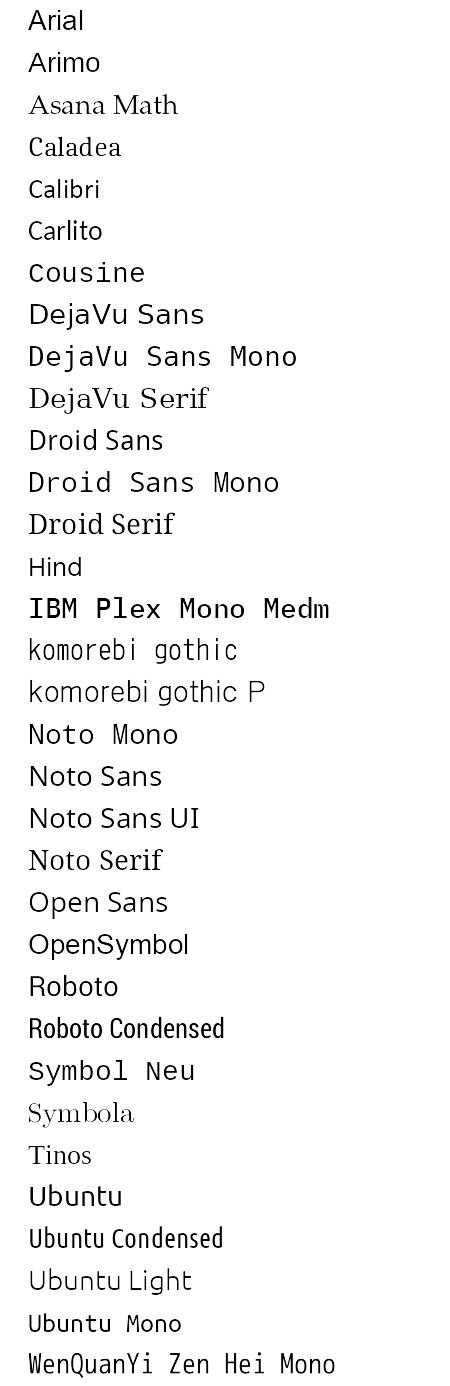
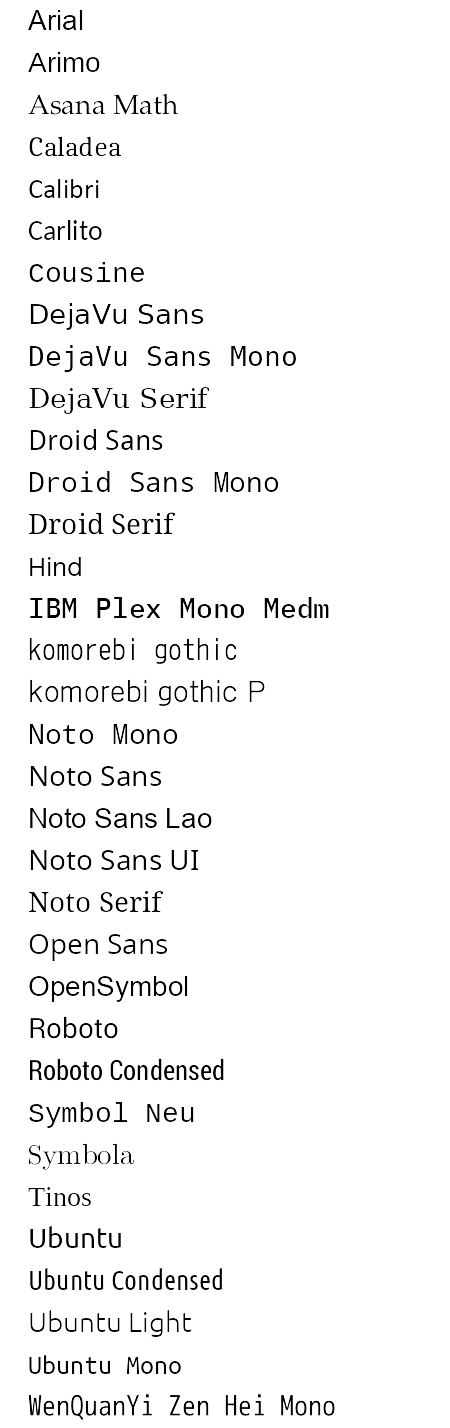
Add fonts

diff --git a/common/AllFonts.js b/common/AllFonts.js
@@ -11,6 +11,7 @@
 "NotoSansUI-Italic.ttf",
 "SymbolNeu.ttf",
 "NotoSerif-Italic.ttf",
+"NotoSansLao-Regular.ttf",
 "Arimo-BoldItalic.ttf",
 "Ubuntu-L.ttf",
 "RobotoCondensed-Italic.ttf",
@@ -58,6 +59,7 @@
 "DroidSerif-Regular.ttf",
 "Arimo-Bold.ttf",
 "NotoSans-Italic.ttf",
+"AsanaMath.ttf",
 "arialbi.ttf",
 "DejaVuSansMono.ttf",
 "Cousine-Regular.ttf",
@@ -91,38 +93,40 @@
 ];
 
 window["__fonts_infos"] = [
-["Arial",87,0,16,0,6,0,59,0],
-["Arimo",17,0,34,0,57,0,12,0],
-["Caladea",3,0,44,0,1,0,28,0],
-["Calibri",70,0,62,0,68,0,18,0],
-["Carlito",26,0,66,0,52,0,0,0],
-["Cousine",61,0,43,0,27,0,29,0],
-["DejaVu Sans",22,0,-1,-1,86,0,-1,-1],
-["DejaVu Sans Mono",60,0,-1,-1,48,0,-1,-1],
-["DejaVu Serif",46,0,-1,-1,2,0,-1,-1],
-["Droid Sans",32,0,-1,-1,8,0,-1,-1],
-["Droid Sans Mono",73,0,-1,-1,-1,-1,-1,-1],
-["Droid Serif",56,0,64,0,79,0,50,0],
-["Hind",7,0,-1,-1,31,0,-1,-1],
-["IBM Plex Mono Medm",33,0,-1,-1,-1,-1,-1,-1],
-["Noto Mono",35,0,-1,-1,-1,-1,-1,-1],
-["Noto Sans",21,0,58,0,76,0,67,0],
-["Noto Sans UI",69,0,9,0,49,0,55,0],
-["Noto Serif",45,0,11,0,41,0,53,0],
-["Open Sans",39,0,-1,-1,-1,-1,-1,-1],
-["OpenSymbol",37,0,-1,-1,-1,-1,-1,-1],
-["Roboto",78,0,81,0,30,0,85,0],
-["Roboto Condensed",74,0,14,0,4,0,24,0],
+["Arial",89,0,17,0,6,0,61,0],
+["Arimo",18,0,35,0,58,0,13,0],
+["Asana Math",60,0,-1,-1,-1,-1,-1,-1],
+["Caladea",3,0,45,0,1,0,29,0],
+["Calibri",72,0,64,0,70,0,19,0],
+["Carlito",27,0,68,0,53,0,0,0],
+["Cousine",63,0,44,0,28,0,30,0],
+["DejaVu Sans",23,0,-1,-1,88,0,-1,-1],
+["DejaVu Sans Mono",62,0,-1,-1,49,0,-1,-1],
+["DejaVu Serif",47,0,-1,-1,2,0,-1,-1],
+["Droid Sans",33,0,-1,-1,8,0,-1,-1],
+["Droid Sans Mono",75,0,-1,-1,-1,-1,-1,-1],
+["Droid Serif",57,0,66,0,81,0,51,0],
+["Hind",7,0,-1,-1,32,0,-1,-1],
+["IBM Plex Mono Medm",34,0,-1,-1,-1,-1,-1,-1],
+["komorebi gothic",41,0,-1,-1,-1,-1,-1,-1],
+["komorebi gothic P",52,0,-1,-1,-1,-1,-1,-1],
+["Noto Mono",36,0,-1,-1,-1,-1,-1,-1],
+["Noto Sans",22,0,59,0,78,0,69,0],
+["Noto Sans Lao",12,0,-1,-1,-1,-1,-1,-1],
+["Noto Sans UI",71,0,9,0,50,0,56,0],
+["Noto Serif",46,0,11,0,42,0,54,0],
+["Open Sans",40,0,-1,-1,-1,-1,-1,-1],
+["OpenSymbol",38,0,-1,-1,-1,-1,-1,-1],
+["Roboto",80,0,83,0,31,0,87,0],
+["Roboto Condensed",76,0,15,0,4,0,25,0],
 ["Symbol Neu",10,0,-1,-1,-1,-1,-1,-1],
-["Symbola",83,0,-1,-1,-1,-1,-1,-1],
-["Tinos",5,0,65,0,42,0,38,0],
-["Ubuntu",88,0,72,0,47,0,75,0],
-["Ubuntu Condensed",23,0,-1,-1,-1,-1,-1,-1],
-["Ubuntu Light",13,0,80,0,19,0,15,0],
-["Ubuntu Mono",36,0,77,0,63,0,82,0],
-["WenQuanYi Zen Hei Mono",84,0,-1,-1,-1,-1,-1,-1],
-["komorebi gothic",40,0,-1,-1,-1,-1,-1,-1],
-["komorebi gothic P",51,0,-1,-1,-1,-1,-1,-1]
+["Symbola",85,0,-1,-1,-1,-1,-1,-1],
+["Tinos",5,0,67,0,43,0,39,0],
+["Ubuntu",90,0,74,0,48,0,77,0],
+["Ubuntu Condensed",24,0,-1,-1,-1,-1,-1,-1],
+["Ubuntu Light",14,0,82,0,20,0,16,0],
+["Ubuntu Mono",37,0,79,0,65,0,84,0],
+["WenQuanYi Zen Hei Mono",86,0,-1,-1,-1,-1,-1,-1],
 ];
 
[2 lines of base64/hex data omitted]
